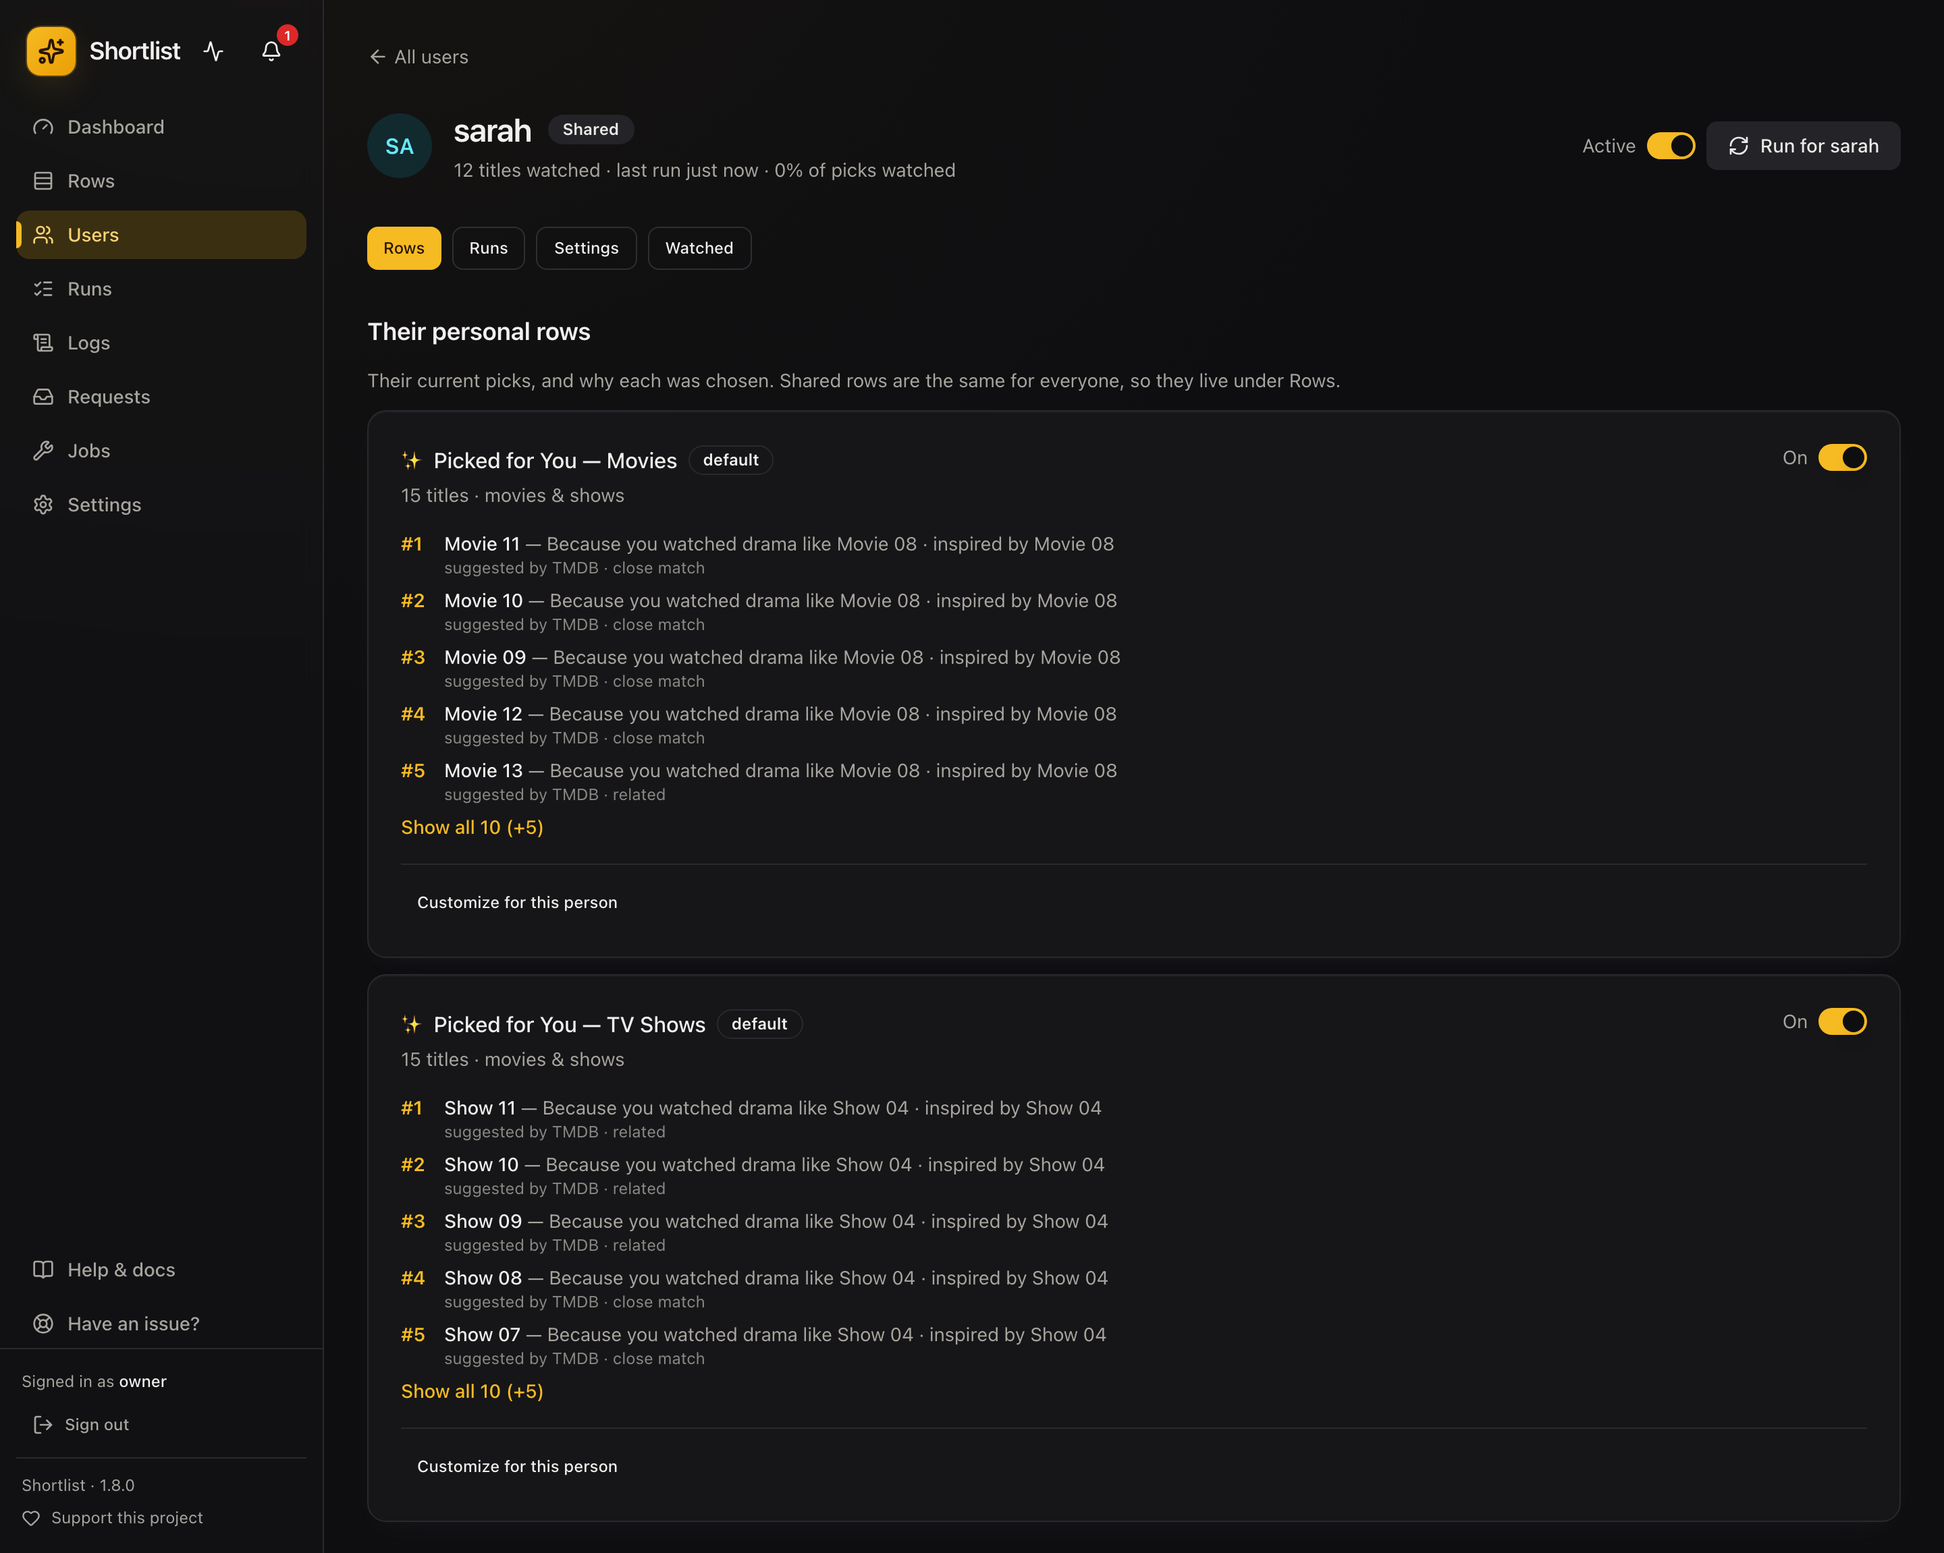
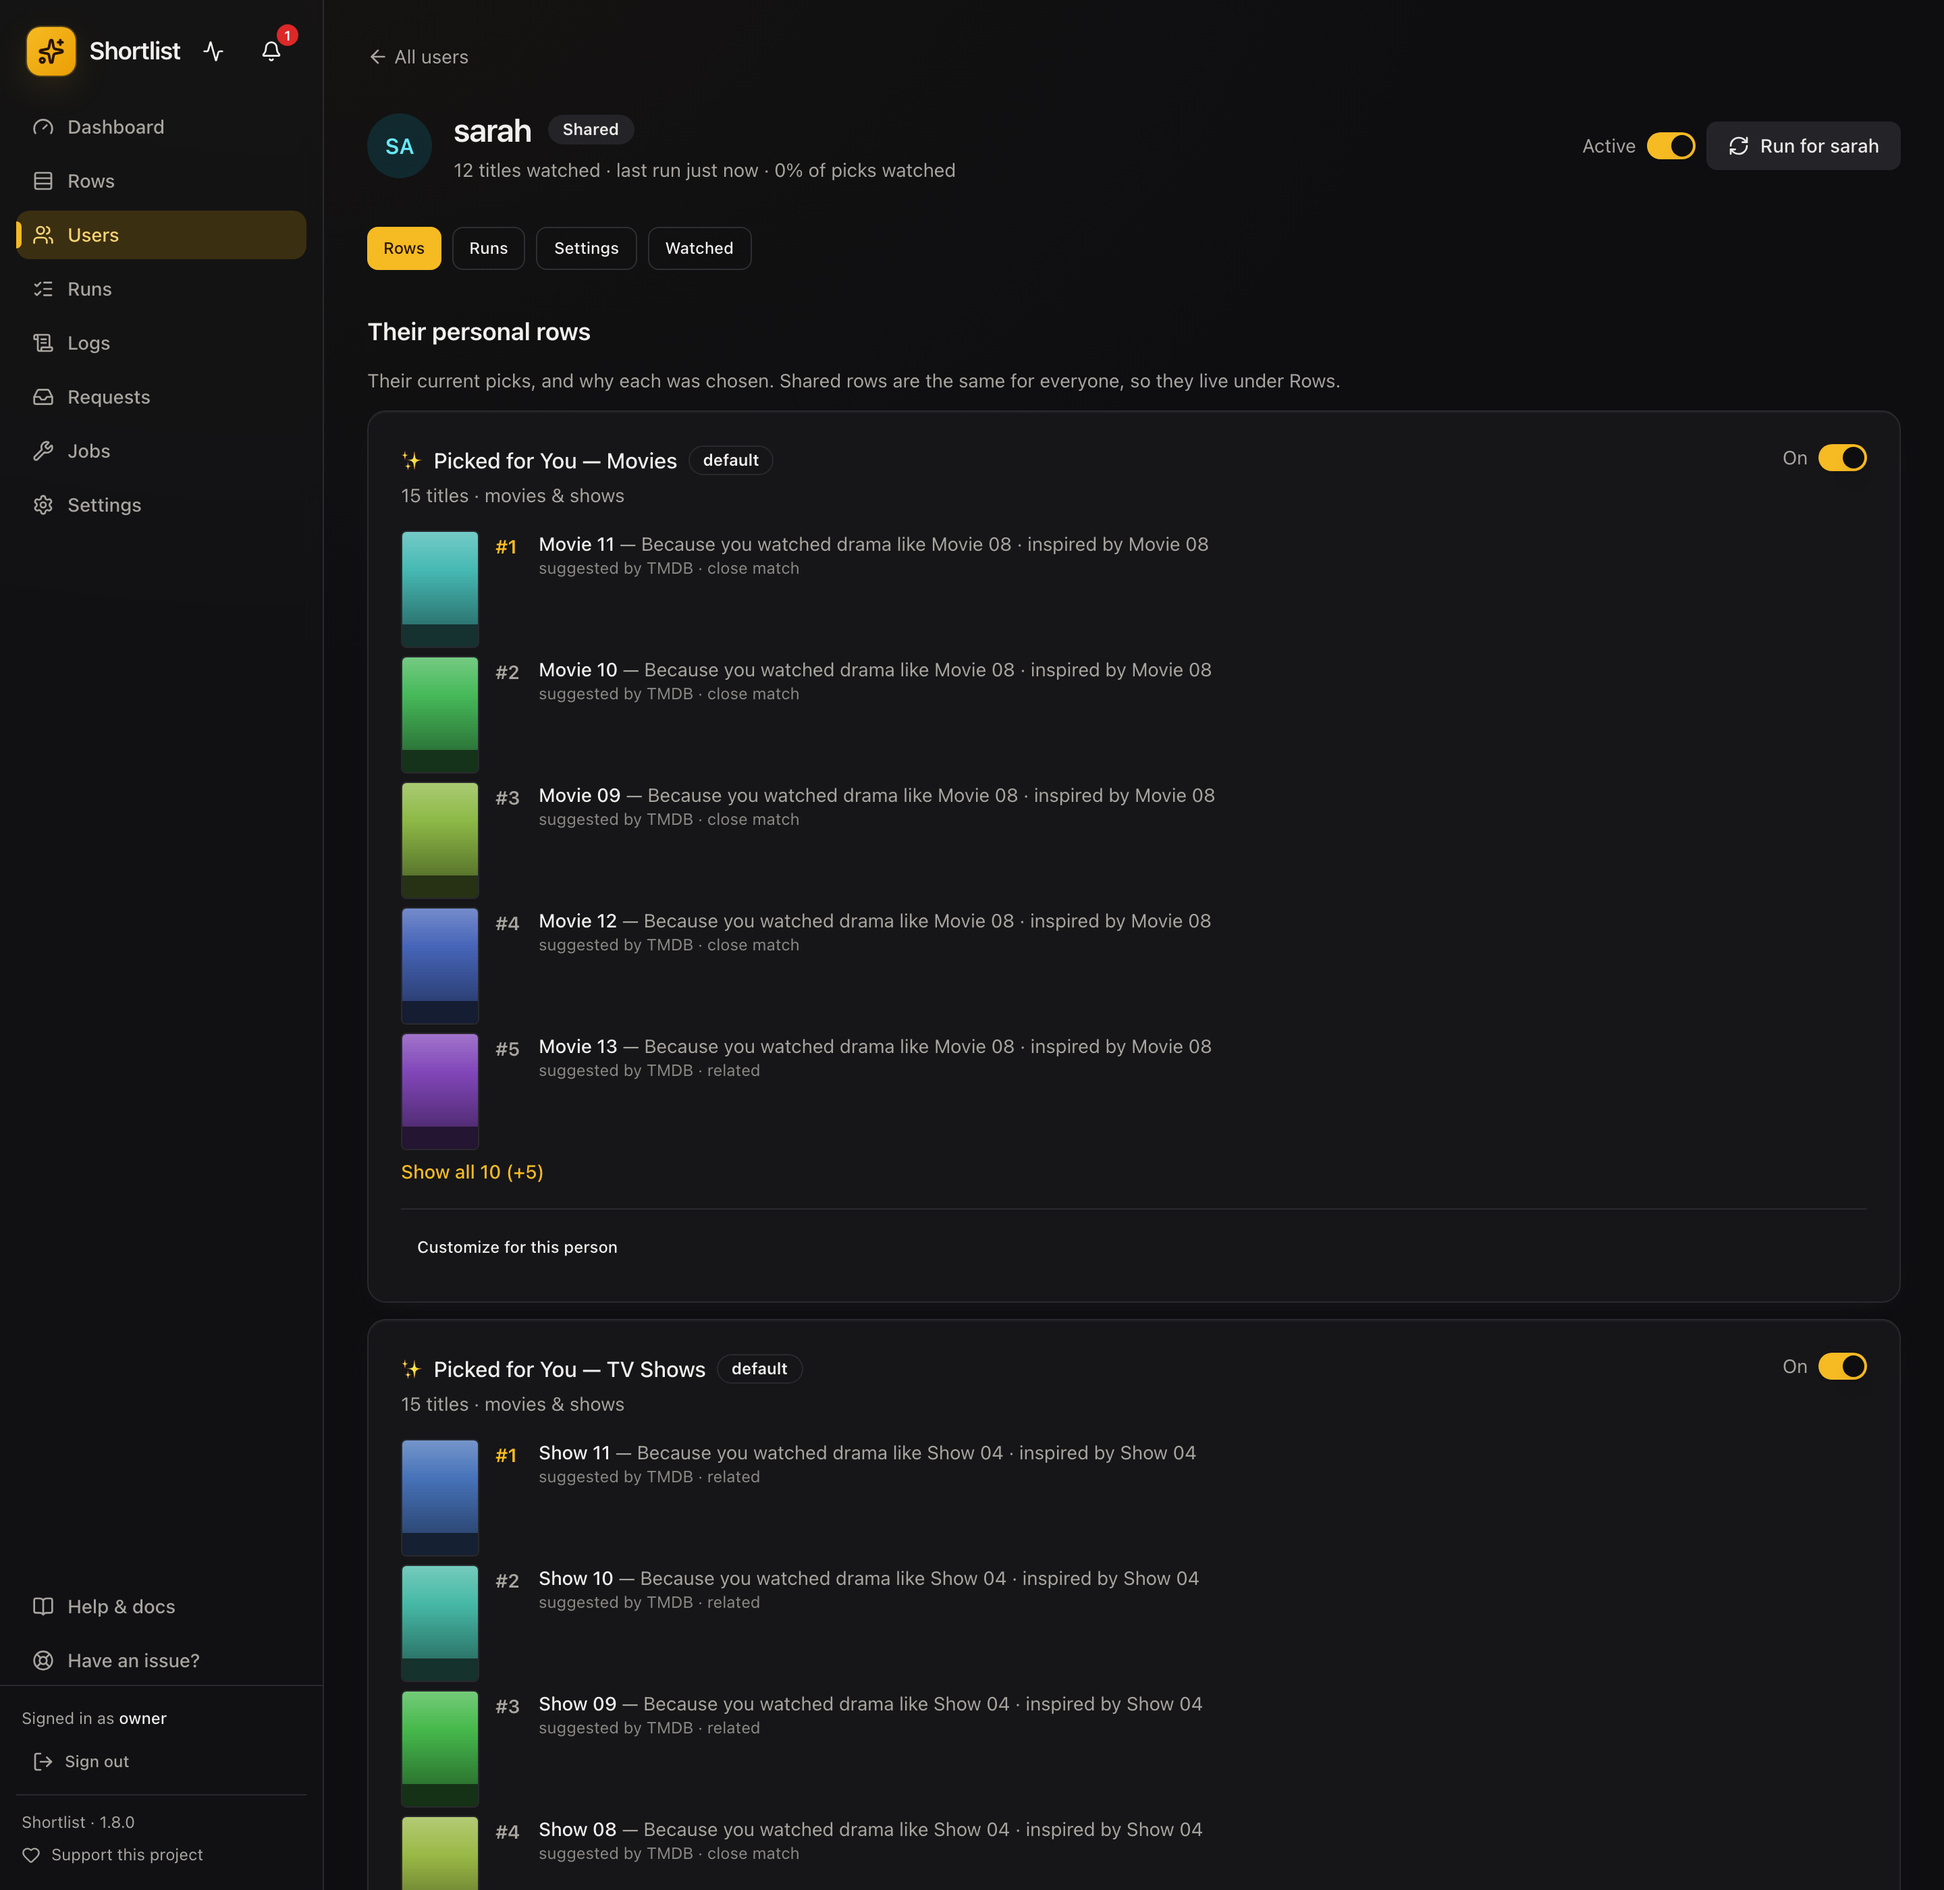
fix(docs): re-capture the screenshots, and give the fake PMS real-looking artwork
The committed screenshots predated two of the biggest UI changes in this release:
the health strip landed in 436e122 and poster artwork in faea7f6, both AFTER the
shots were taken in 0821a84. So the single most visible change in the release was
missing from the pictures of it.

Re-capturing exposed a second problem, and looking at the output is the only
reason it was caught. The fake PMS served `_PNG_1X1` — one green pixel — as every
title's artwork, so every pick rendered as an identical flat green rectangle and
the pick list looked broken rather than illustrated. That is worse than the
text-only list it replaced, and it would have shipped to the docs site as the
illustration of the feature.

`.claude/rules/testing.md` already says the fake must be no EASIER than the real
server; a real PMS returns a distinct 2:3 image per title, so now the fake does
too. Deterministic from the rating key, so a re-take is byte-identical and does
not churn the repo, and it falls back to the flat pixel if Pillow is ever absent
so the fake never becomes the reason a test cannot run. Pillow ships in
requirements.lock via the posters extra, so CI has it.

The audit's verdict on Shortlist's biggest visual weakness was "zero imagery
anywhere in its own screens — it makes a media curation tool look and feel like a
log viewer". These are the screenshots where that stops being true.

Claude-Session: https://claude.ai/code/session_01AKA1JABEXyfJyUDAXAN276

diff --git a/tests/fakes/fake_plex.py b/tests/fakes/fake_plex.py
@@ -17,8 +17,10 @@ Fidelity notes (mirrors of real-Plex behavior the engine depends on):
 from __future__ import annotations
 
 import base64
+import io
 import re
 from dataclasses import dataclass, field
+from functools import lru_cache
 from xml.etree.ElementTree import Element, SubElement, tostring
 
 from fastapi import FastAPI, HTTPException, Request, Response
@@ -699,6 +701,40 @@ def _sorted_items(items: list[FakeMovie], sort: str | None) -> list[FakeMovie]:
     return sorted(items, key=_SORT_KEYS.get(fieldname, lambda m: m.rating_key), reverse=direction == "desc")
 
 
+@lru_cache(maxsize=256)
+def _fake_poster(rating_key: int) -> bytes:
+    """A poster-SHAPED, per-title-COLOURED image, not a stretched single pixel.
+
+    The 1x1 placeholder below is right for asserting "artwork was served"; it is wrong for the
+    screenshots the docs site ships, where every pick rendered as the same flat green rectangle and
+    the pick list looked broken rather than illustrated. Since `.claude/rules/testing.md` says the
+    fake must be no EASIER than the real server, and a real PMS returns a distinct 2:3 image per
+    title, this returns one too.
+
+    Deterministic from the rating key, so a screenshot re-taken tomorrow is byte-identical and does
+    not churn the repo. Falls back to the flat pixel if Pillow is missing, so the fake never becomes
+    the reason a test cannot run.
+    """
+    try:
+        from PIL import Image, ImageDraw
+    except ImportError:  # pragma: no cover - Pillow ships in requirements.lock via the posters extra
+        return _PNG_1X1
+
+    width, height = 200, 300
+    hue = (rating_key * 47) % 360  # spread neighbouring keys far apart so a list looks varied
+    image = Image.new("RGB", (width, height))
+    draw = ImageDraw.Draw(image)
+    for y in range(height):
+        # Top-to-bottom darkening, which is what makes it read as artwork rather than a colour swatch.
+        lightness = 62 - int(38 * y / height)
+        draw.line([(0, y), (width, y)], fill=f"hsl({hue}, 45%, {lightness}%)")
+    # A darker band where a real poster carries its title block.
+    draw.rectangle([0, height - 58, width, height], fill=f"hsl({hue}, 40%, 14%)")
+    buffer = io.BytesIO()
+    image.save(buffer, format="PNG")
+    return buffer.getvalue()
+
+
 def make_fake_plex(state: FakePlexState) -> FastAPI:
     """PMS surface (path prefix '') — enough for plexapi + the engine's raw /hubs calls."""
     app = FastAPI()
@@ -1001,7 +1037,7 @@ def make_fake_plex(state: FakePlexState) -> FastAPI:
         item = state.item(rating_key)
         if item is None or stamp != str(item.added_at):
             raise HTTPException(status_code=404, detail=f"no artwork at {rating_key}/thumb/{stamp}")
-        return Response(_PNG_1X1, media_type="image/png")
+        return Response(_fake_poster(rating_key), media_type="image/png")
 
     @app.get("/hubs/sections/{section_id}/manage")
     def manage_hubs(section_id: int, request: Request) -> Response:
